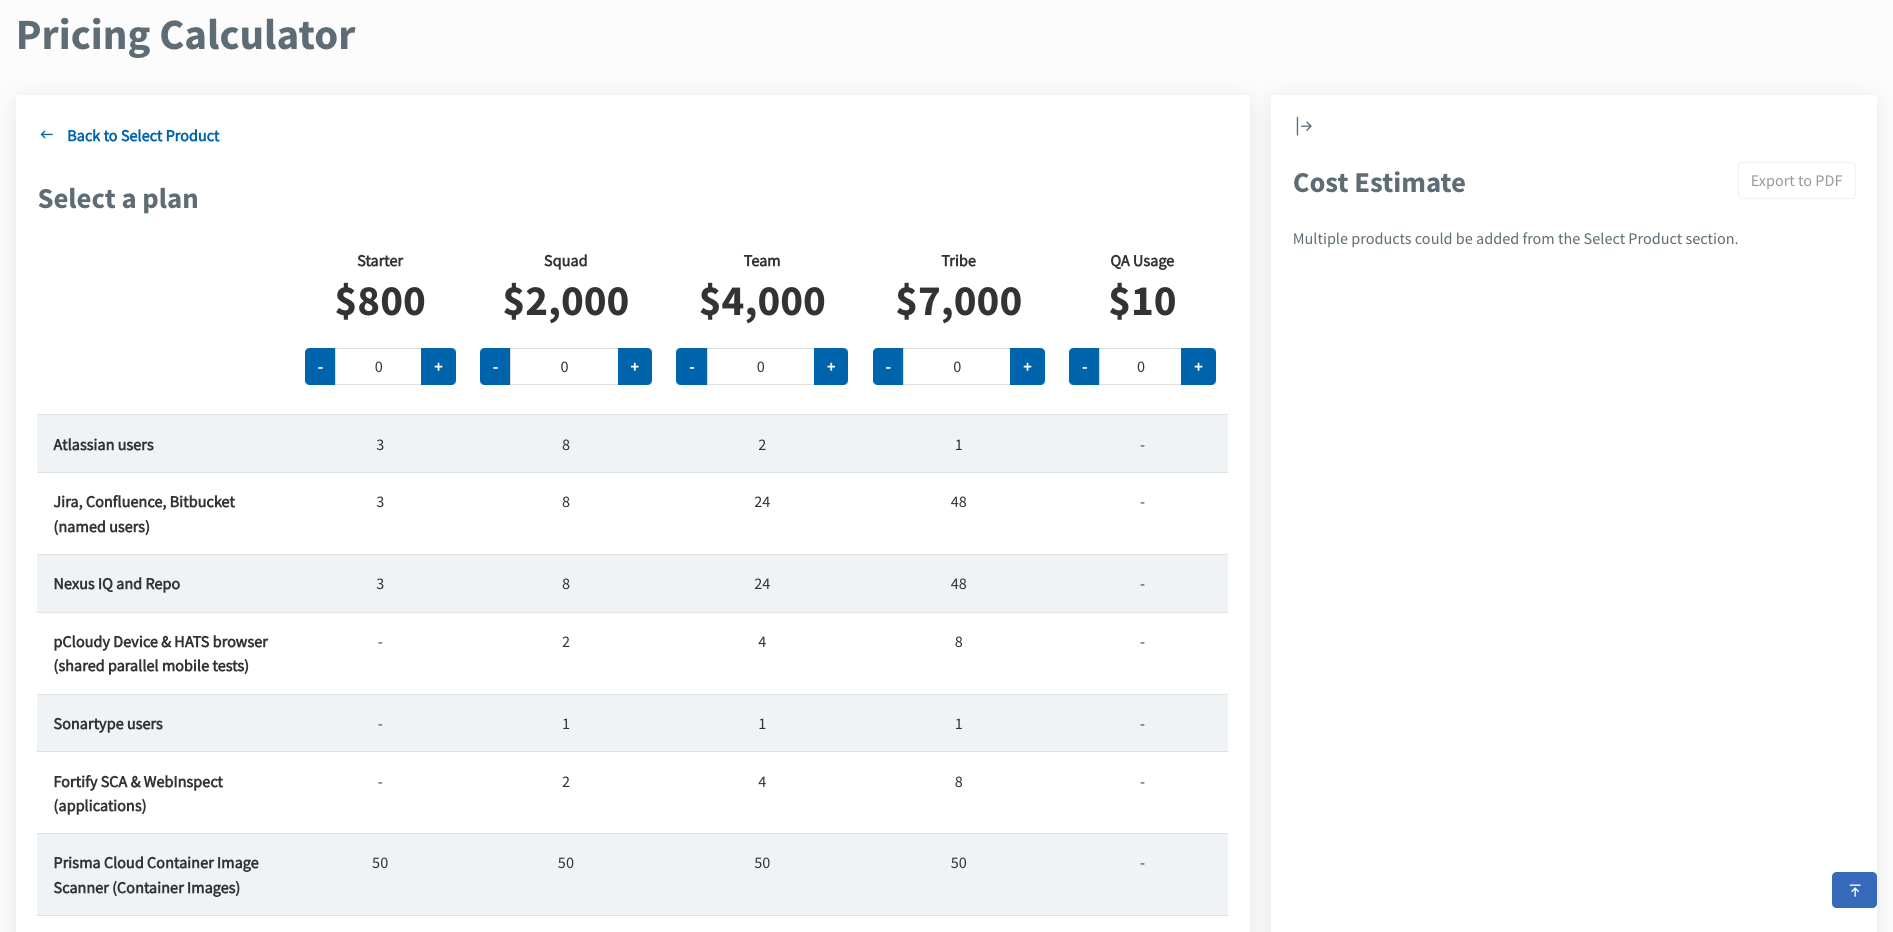
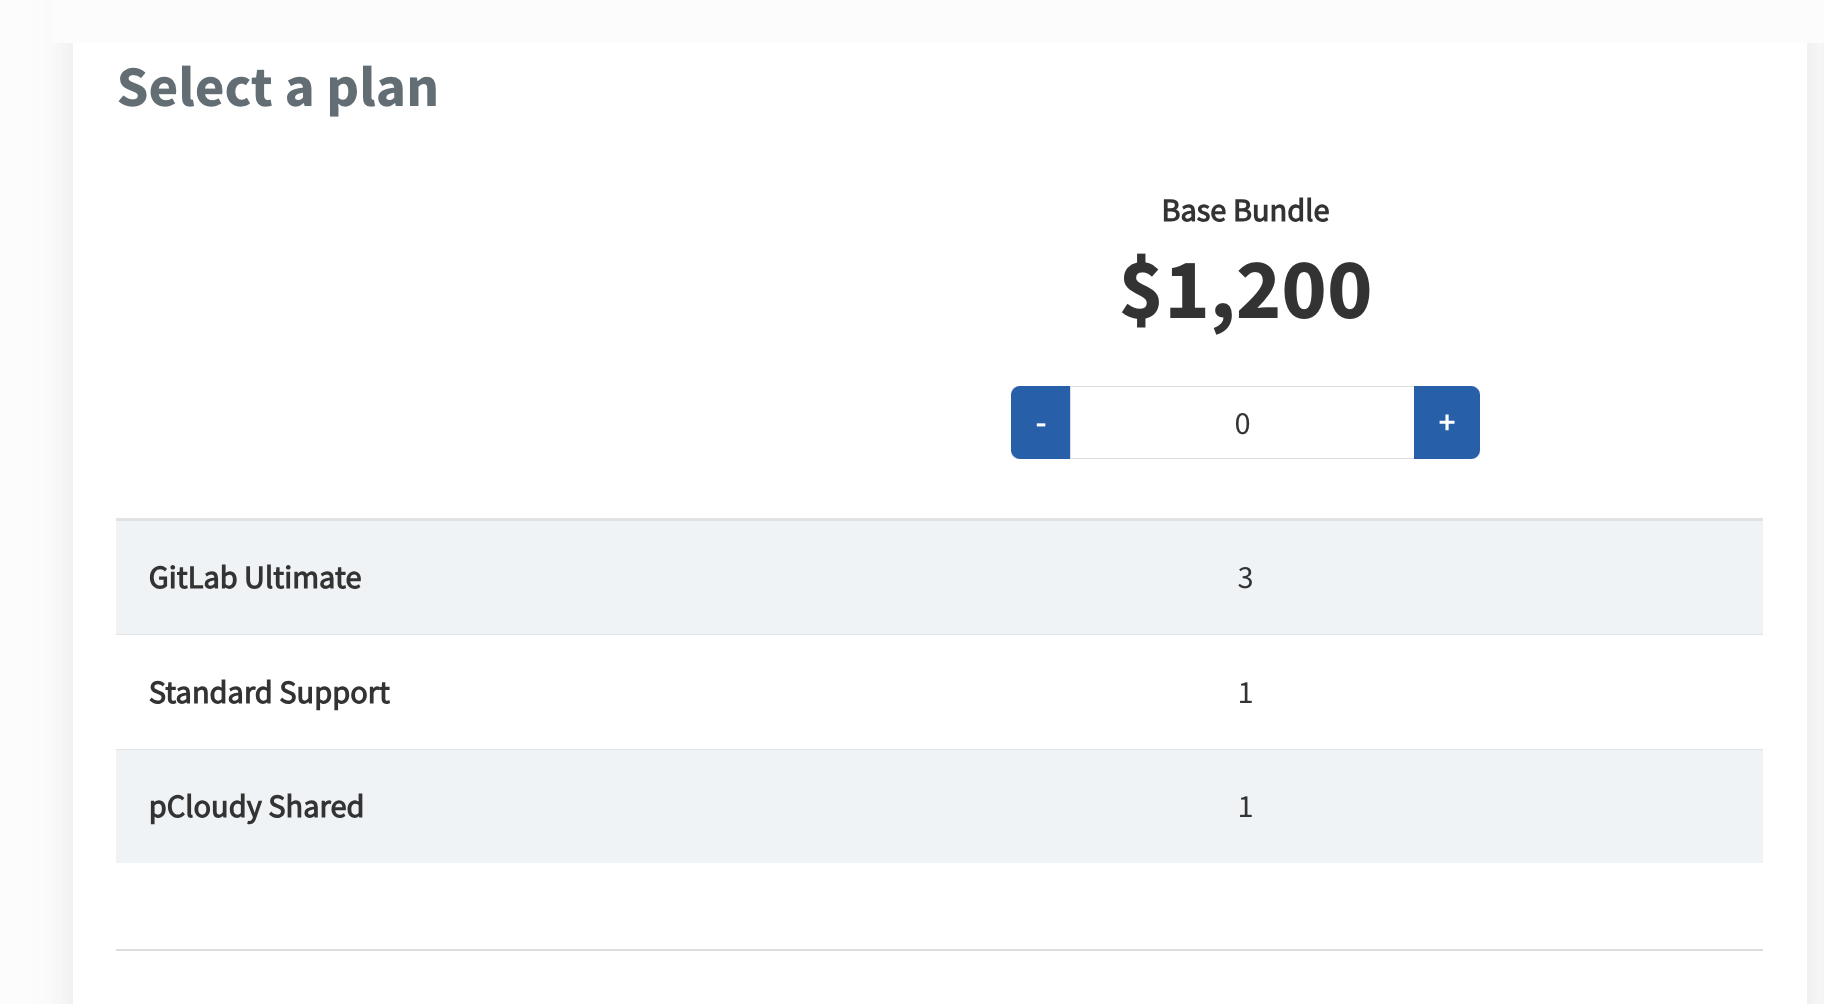
change

diff --git a/pricing-calculator.md b/pricing-calculator.md
@@ -9,41 +9,42 @@ You may want to generate a cost estimate if you are:
 1. Exploring SGTS Products
 2. Subscribing to SGTS Products
 
-This Pricing Calculator is designed to provide you with a quick and accurate estimation of subscription costs.
-
-Denise C, [24/11/23 2:05 PM]
-You may want to generate cost estimate if you are:
-1) Exploring SGTS Products
-2) Subscribing to SGTS Products
-
-
-Denise C, [24/11/23 2:05 PM]
-or something like tht lol
+This Pricing calculator is designed to provide you with a quick and accurate estimation of subscription costs.
 
 **To generate cost estimate**:
 
-1a. *If you are exploring SGTS Products*:
-- Navigate to the sidebar and click **Pricing Calculator** and choose the product for which you want to estimate costs.
+1. From **Create subscription account**, under **Select products**, choose the required product(s).
 
 <kbd><img src="images/select-prod-cal.png" alt="drawing" width="100%"/></kbd>
 
-1b. *If you are subscribing to an SGTS Product*:
+> **Note**: If you are exploring SGTS Products, navigate to the sidebar and click **Pricing Calculator** and choose the product for which you want to estimate costs.
 
-- Select the same product as the one you are onboarding to.
+2. Select a **Start date** for when you want to start subscribing.
 
-2. Select a specific plan and indicate the desired quantity.
+<kbd><img src="images/select-start-date-cal.png" alt="drawing" width="100%"/></kbd>
+
+> **Note**: Not required for exploring SGTS products.
+
+3. Choose a plan and specify the desired quantity.
 
 <kbd><img src="images/select-cal-plan.png" alt="drawing" width="100%"/></kbd>
 
 > **Note**: To select add-ons, you must first choose a plan.
 
-3. Click **Add to estimate**.
+4. Select any necessary add-ons.
 
-<kbd><img src="images/add-estimate.png" alt="drawing" width="100%"/></kbd>
+<kbd><img src="images/add-ons-cal.png" alt="drawing" width="100%"/></kbd>
 
 The estimated cost will be displayed on the right-side panel.
 
+<kbd><img src="images/cost-estimate.png" alt="drawing" width="100%"/></kbd>
+
+
+> **Note**: If you are exploring SGTS products, click **Add to estimate**.
+
+
 **To save the cost estimate as a PDF**:
+
 - Click **Export to PDF**.
 
-<kbd><img src="images/export-pdf-cal.png" alt="drawing" width="100%"/></kbd>
+<kbd><img src="images/cost-estimate-add.png" alt="drawing" width="100%"/></kbd>
